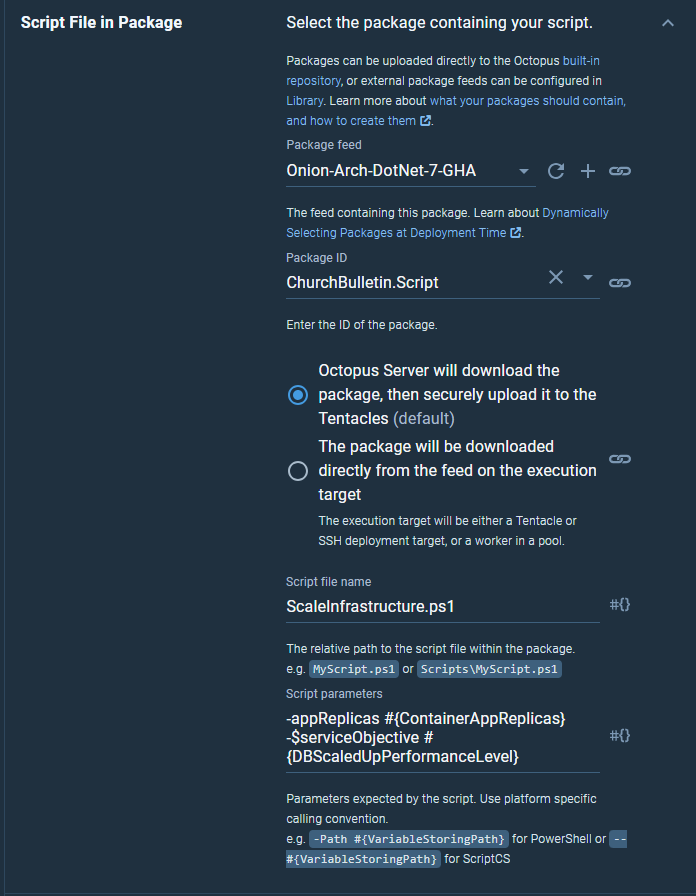
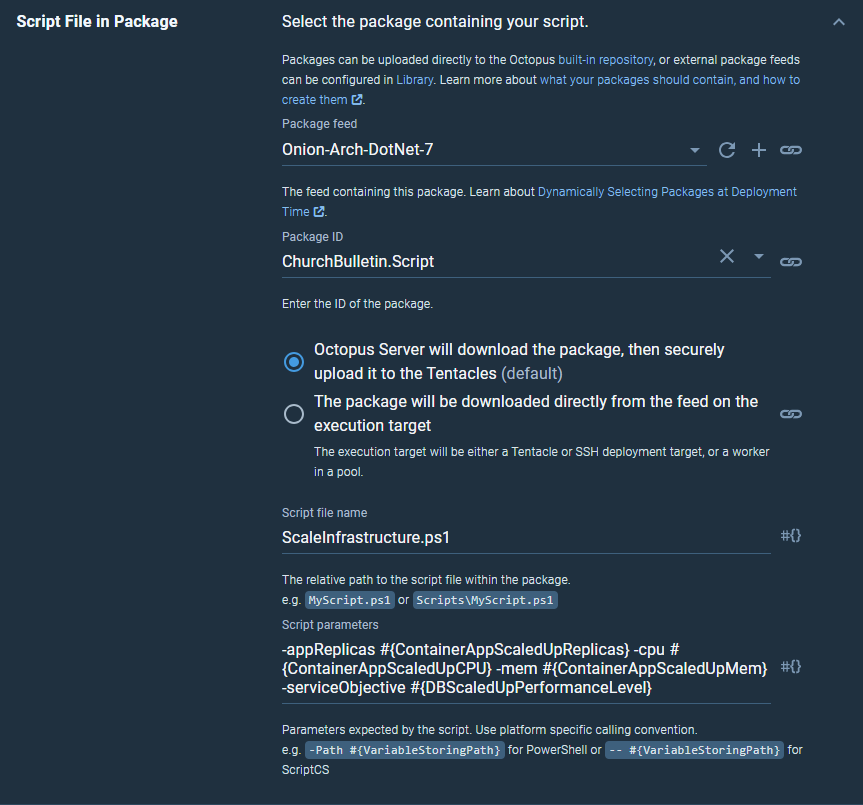
updated deployment and documentation to allow capp scaling

diff --git a/README.md b/README.md
@@ -505,7 +505,9 @@ In the ChurchBulletin.Scripts package that is created there is a script called S
 ## Create ContainerAppReplicas variable
 
 In your Octopus Deploy project, create two new variables
-- **ContainerAppReplicas** and give it an integer value. e.g. 2
+- **ContainerAppScaledUpReplicas** and give it an integer value. e.g. 2
+- **ContainerAppScaledUpCPU** and give it a float value. e.g. 0.5
+- **ContainerAppScaledUpMem** and give it a float value. e.g. 1.0
 - **DBScaledUpPerformanceLevel** and give it service objective value. e.g. S0
 
 Commit these variables to main. **Variables not in the default branch will not be accessible to runbooks**
@@ -542,7 +544,7 @@ Commit these variables to main. **Variables not in the default branch will not b
 - Under Script File in Package set the Package feed to the feed that was created.
 - Set the Package ID to **ChurchBulletin.Script**
 - Set the Script file name to **ScaleInfrastructure.ps1**
-- Set the Script parameters to **-appReplicas #{ContainerAppReplicas} -serviceObjective #{DBScaledUpPerformanceLevel}**
+- Set the Script parameters to **-appReplicas #{ContainerAppScaledUpReplicas} -cpu #{ContainerAppScaledUpCPU} -mem #{ContainerAppScaledUpMem} -serviceObjective #{DBScaledUpPerformanceLevel}**
 
 ![Alt text](images/runbook5.png)
 
